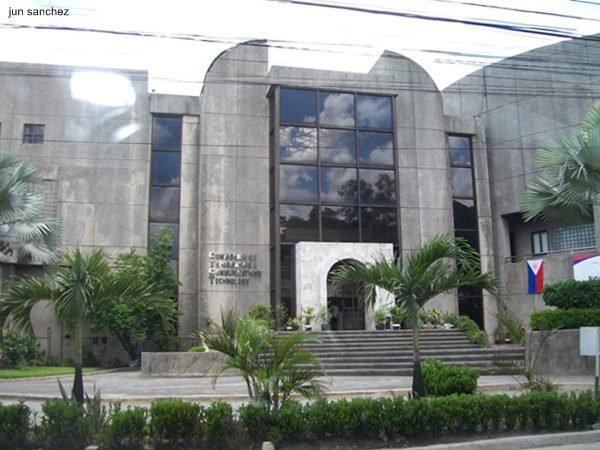
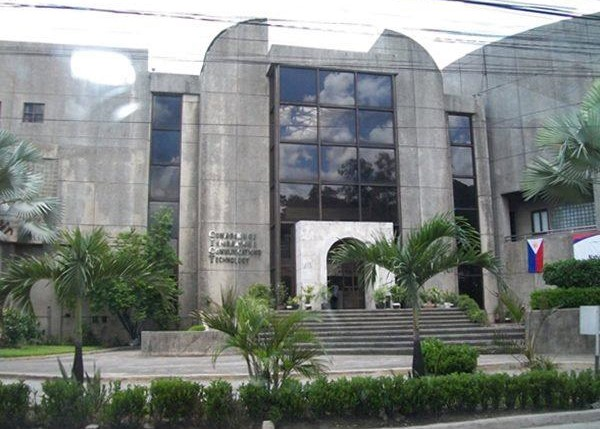
parsearch - cybersec image fix

diff --git a/src/lib/posts/parsearch-2024-10-29-ph-unveils-national-cybersecurity-plan-2023–2028.md b/src/lib/posts/parsearch-2024-10-29-ph-unveils-national-cybersecurity-plan-2023–2028.md
@@ -6,7 +6,7 @@ editor: Abram Marcelo
 date: 2024-10-16T00:00:00.000Z
 updated: 2024-10-16T00:00:00.000Z
 coverImage: /media/uploads/94_big.jpg
-attribution: DICT building at Quezon City
+attribution: DICT building at Quezon City from Jun Sanchez
 excerpt: "On April 4, 2024, the Philippines launched the National
   Cybersecurity Plan (NCSP) 2023–2028 under the Executive Order #58 to enhance
   the nation’s cybersecurity landscape."
